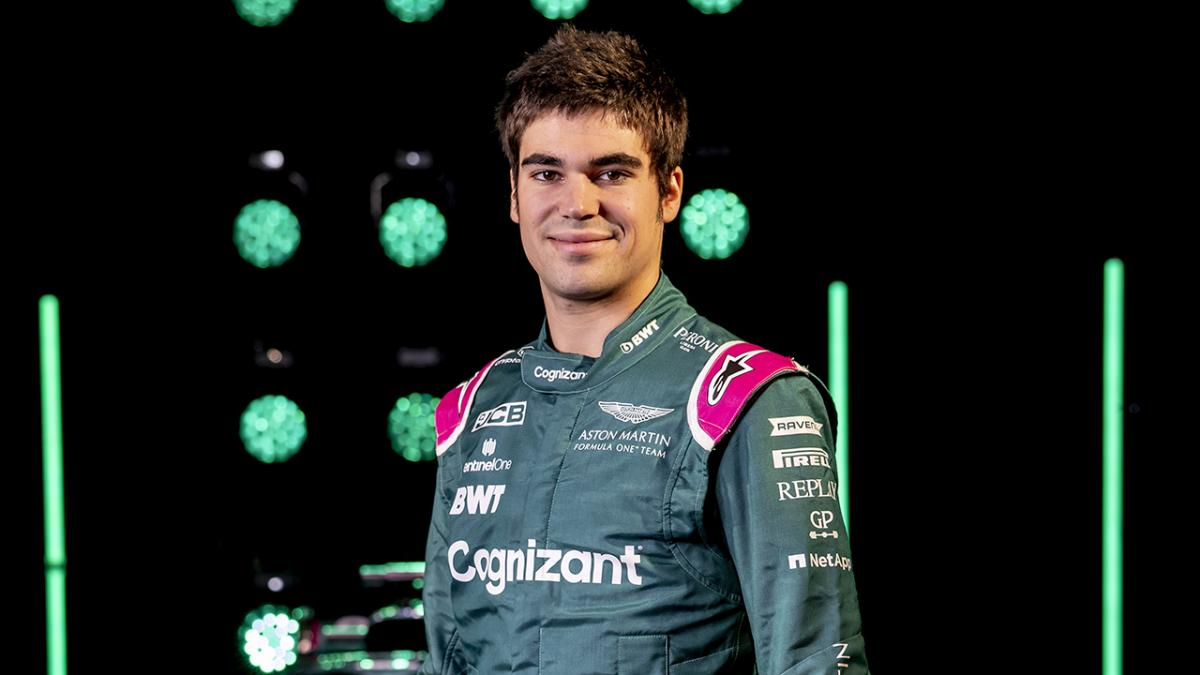
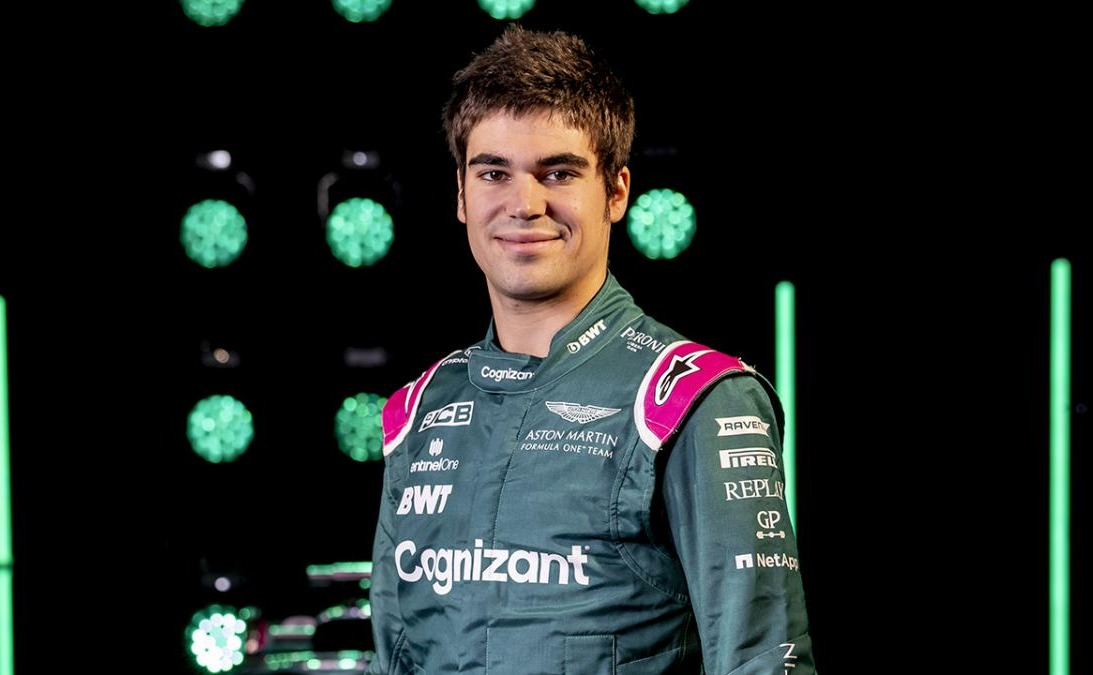
resized driver images

diff --git a/src/config/DriverConfig.js b/src/config/DriverConfig.js
@@ -1,4 +1,4 @@
-import alexanderAlbon from '../assets/drivers/alex_albon.jpeg'
+import alexanderAlbon from '../assets/drivers/alex_albon.png'
 import carlosSainz from '../assets/drivers/carlos_sainz.png'
 import charlesLeclerc from '../assets/drivers/charles_leclerc.webp'
 import danielRicciardo from '../assets/drivers/daniel_ricciardo.webp'
@@ -17,7 +17,7 @@ import nyckDeVries from '../assets/drivers/nyck_deVries.jpeg'
 import pierreGasly from '../assets/drivers/pierre_gasly.gif'
 import sebastianVettel from '../assets/drivers/sebastian_vettel.jpeg'
 import sergioPerez from '../assets/drivers/sergio_perez.png'
-import valtteriBottas from '../assets/drivers/valtteri_bottas.jpg'
+import valtteriBottas from '../assets/drivers/valtteri_bottas.webp'
 import yukiTsunoda from '../assets/drivers/yuki_tsunoda.jpeg'
 import zhouGuanYu from '../assets/drivers/zhou_guanyu.jpeg'
 

diff --git a/src/components/DriverModal.js b/src/components/DriverModal.js
@@ -11,7 +11,7 @@ const style = {
   top: '50%',
   left: '50%',
   transform: 'translate(-50%, -50%)',
-  width: 400,
+  width: 450,
   bgcolor: 'background.paper',
   boxShadow: 24,
   p: 4,
@@ -33,7 +33,9 @@ export default function DriverModal({ driver }) {
         aria-describedby="modal-modal-description"
       >
         <Box sx={style}>
+          <div className='modal-image'>
             <img className='driver-image' src={DriverConfig[driver.name]}></img>
+          </div>
           <Typography id="modal-modal-title" variant="h7" component="h2">
             {driver.name} {driver.driverInfo.country_code}
           </Typography>

diff --git a/src/components/DriverModal.css b/src/components/DriverModal.css
@@ -12,7 +12,13 @@
   margin-bottom: 0px !important;
 }
 
+.modal-image {
+  display: flex;
+  justify-content: center;
+}
+
 .driver-image {
-  max-width: 400px;
-  max-height: 500px;
+  max-width: 100%;
+  max-height: 100%;
+  object-fit: contain !important;
 }
